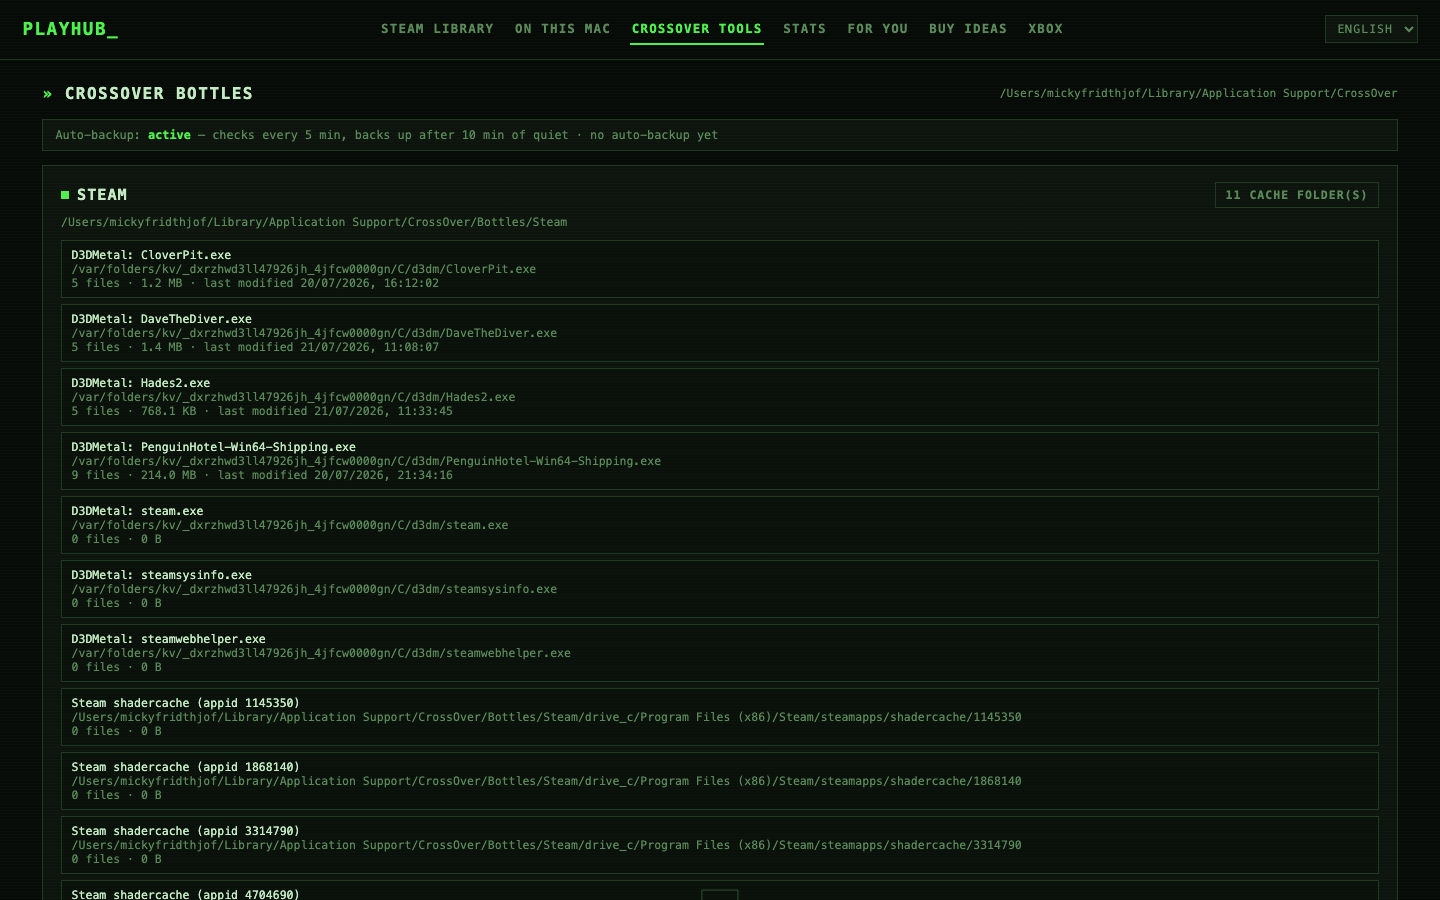
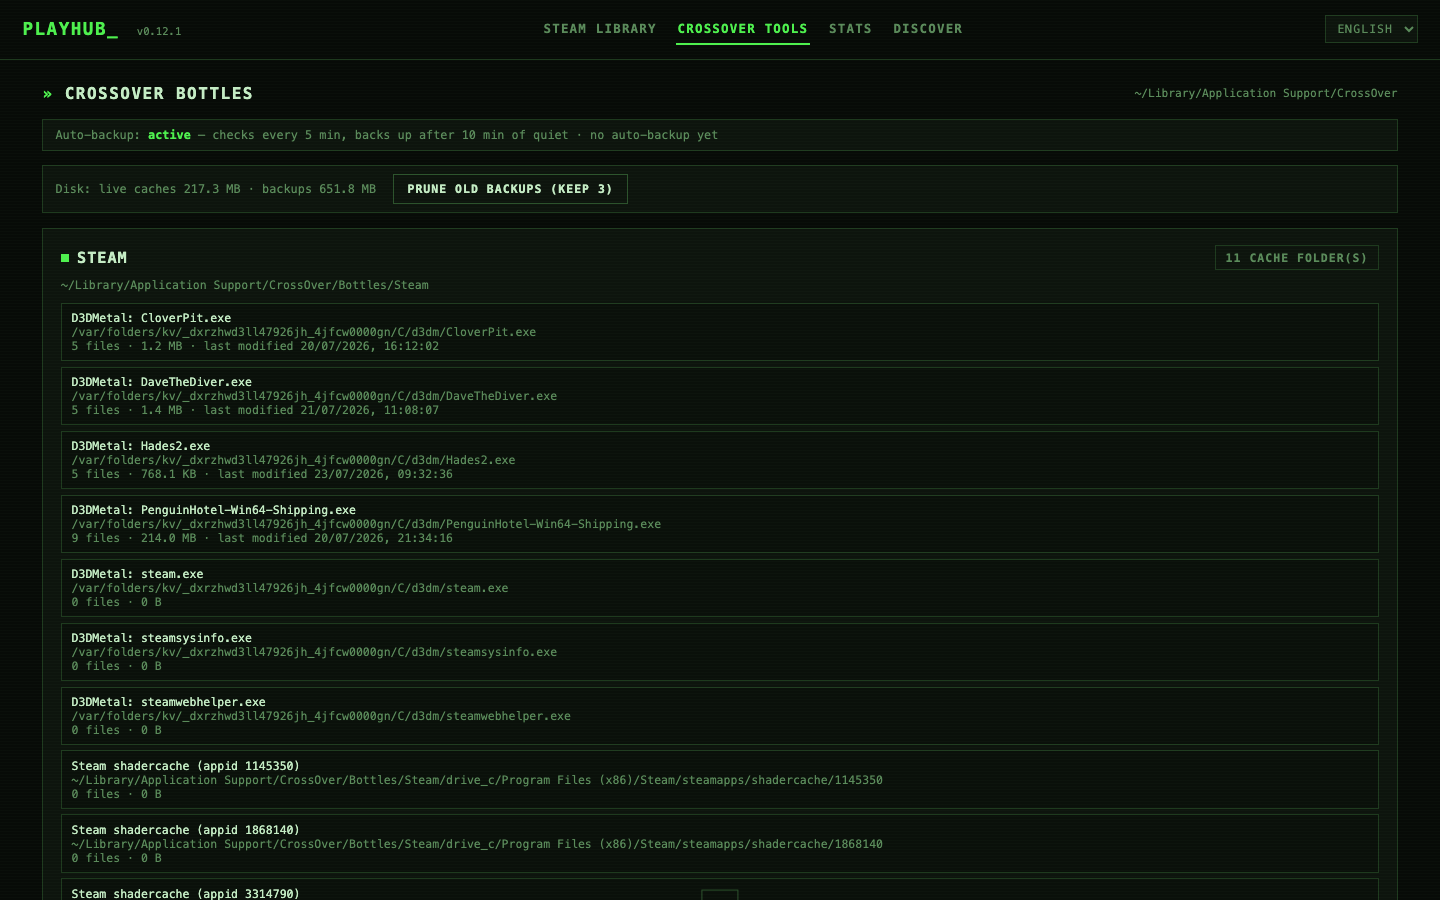
v0.12.2 — fresh screenshots + path privacy
- CrossOver tab no longer shows the user's home directory expanded —
  paths display as ~/… (display only; actions use bottle/backup names)
- README and landing page screenshots regenerated for the new 4-tab UI
  (library, CrossOver tools, stats incl. the Your Mac tile)

diff --git a/web/server.js b/web/server.js
@@ -372,6 +372,14 @@ app.get(
   })
 );
 
+// Viste stier skal ikke afsløre brugernavnet (fx i screenshots) — forkort
+// hjemmemappen til ~ i alt hvad UI'et viser. Kun til visning; handlinger
+// bruger bottle-/backup-navne, aldrig disse strenge.
+function tidyPaths(value) {
+  const home = os.homedir();
+  return JSON.parse(JSON.stringify(value).replaceAll(home, "~"));
+}
+
 app.get(
   "/api/crossover/bottles",
   wrap(async (req, res) => {
@@ -380,13 +388,13 @@ app.get(
       (s, b) => s + b.caches.reduce((x, c) => x + c.size_bytes, 0),
       0
     );
-    res.json({
+    res.json(tidyPaths({
       ...data,
       crossover_root: CROSSOVER_ROOT,
       autobackup: getAutoBackupStatus(),
       caches_total_bytes: cachesTotal,
       backups_total_bytes: await backupsTotalBytes(),
-    });
+    }));
   })
 );
 
